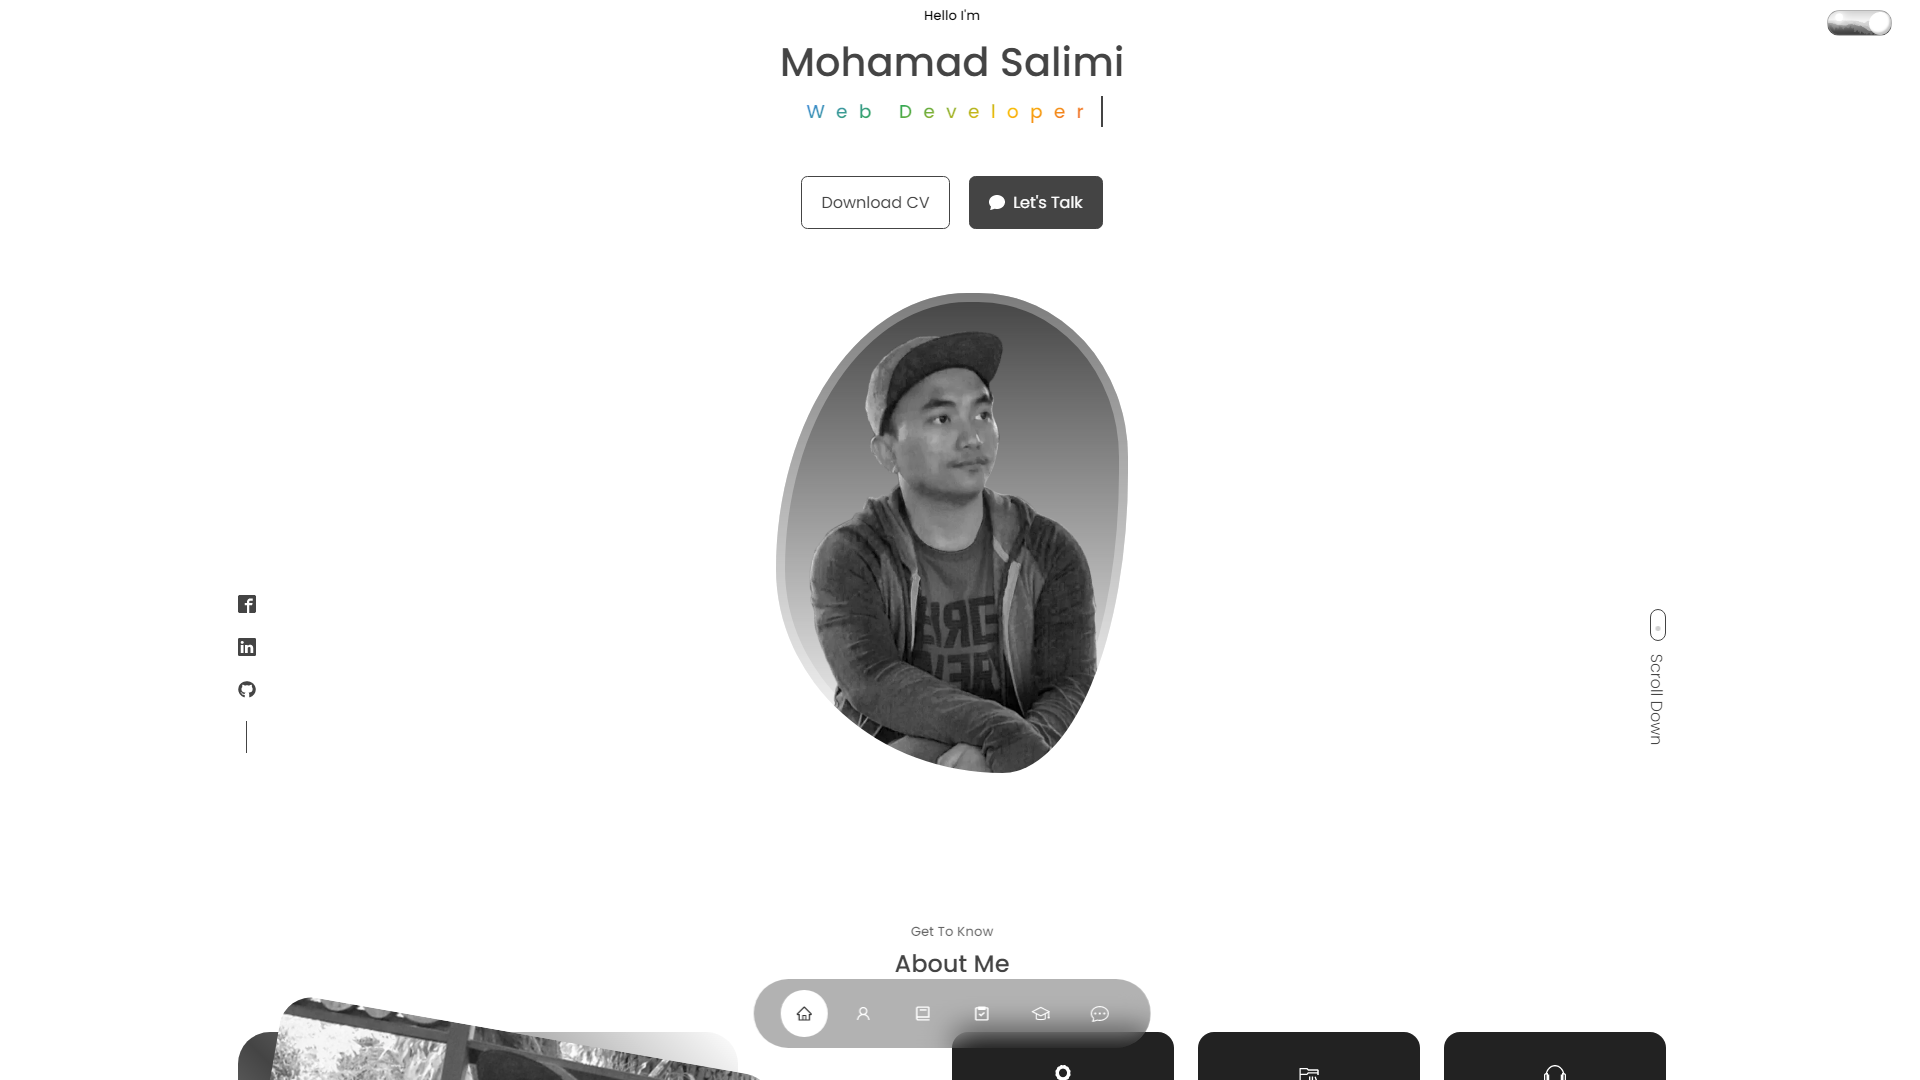
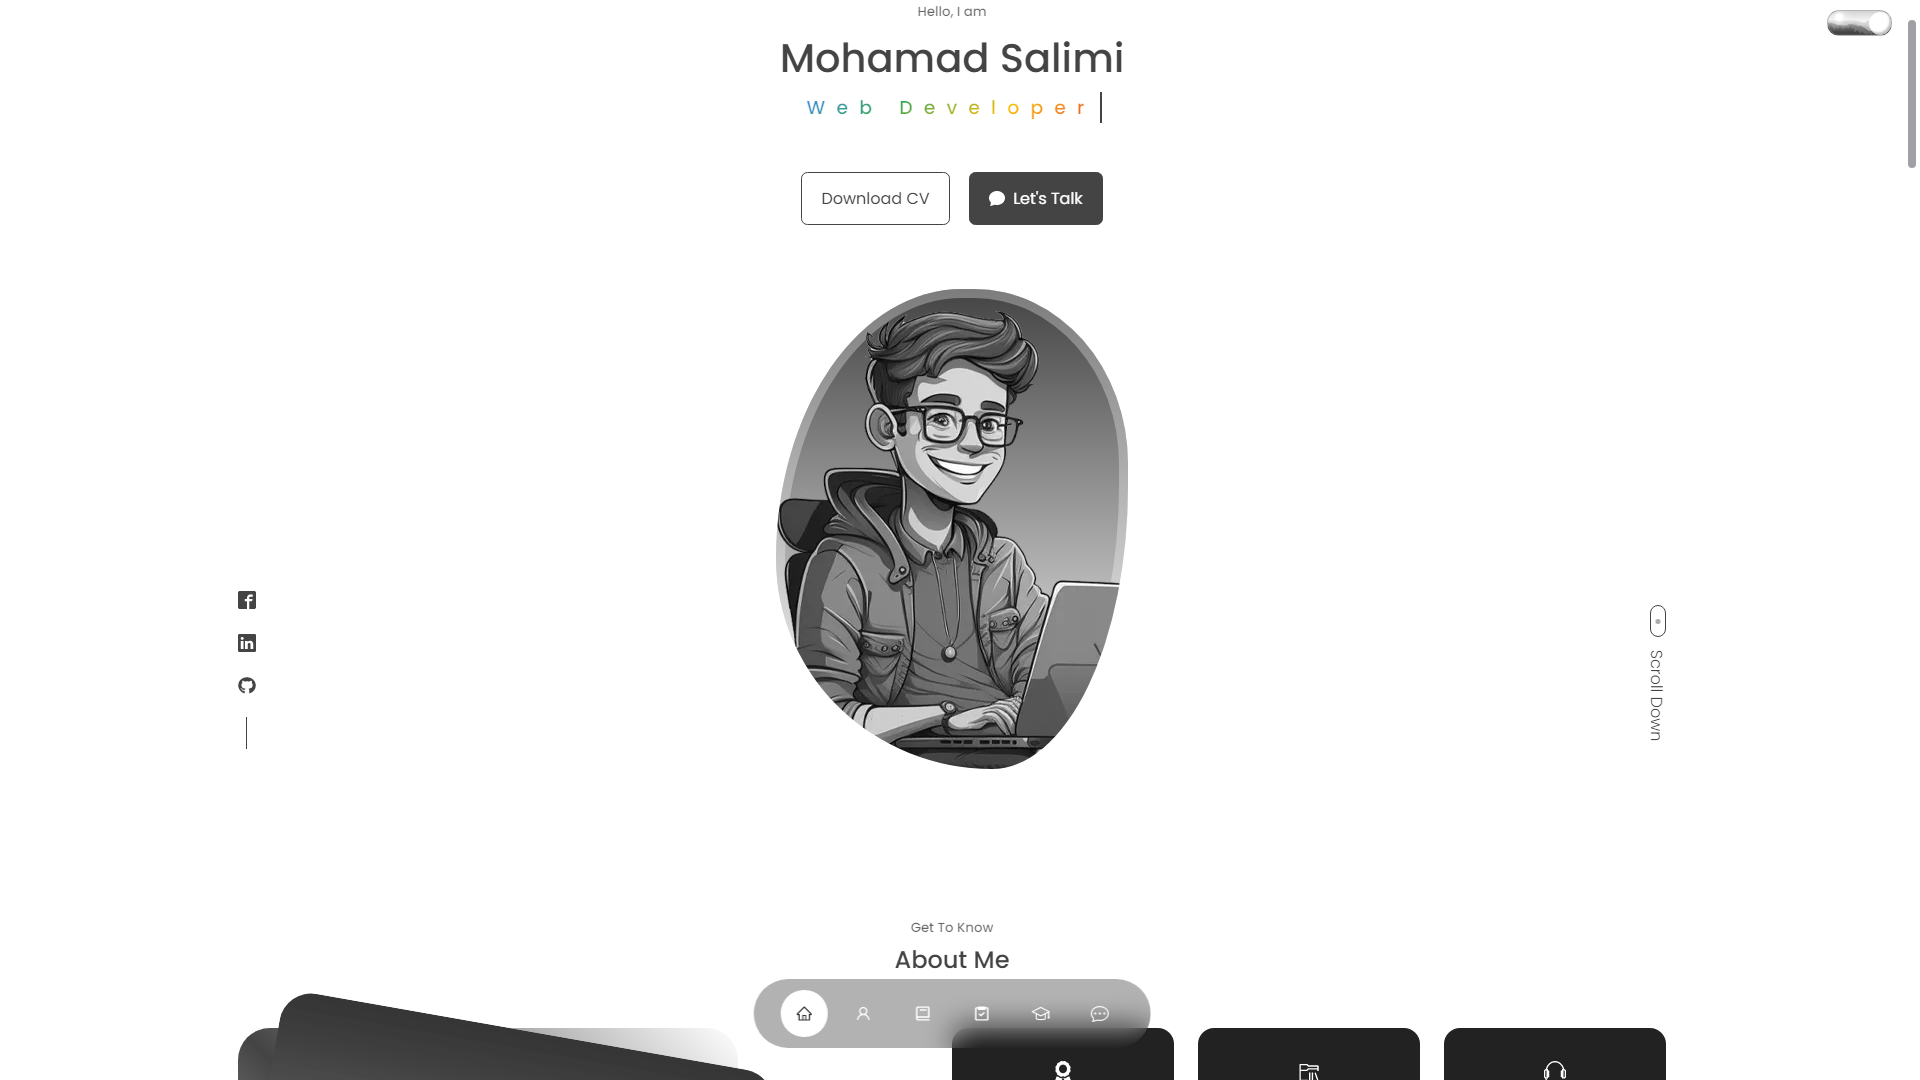
Update new images

diff --git a/src/components/about/About.jsx b/src/components/about/About.jsx
@@ -1,11 +1,11 @@
 import React from 'react';
 import './about.css';
-import MeJpg1000 from '../../assets/salimi-bw-background-1000.jpg';
-import MeWebp1000 from '../../assets/salimi-bw-background-1000.webp';
-import MeJpg440 from '../../assets/salimi-bw-background-440.jpg';
-import MeWebp440 from '../../assets/salimi-bw-background-440.webp';
-import MeJpg250 from '../../assets/salimi-bw-background-250.jpg';
-import MeWebp250 from '../../assets/salimi-bw-background-250.webp';
+import MeJpg1000 from '../../assets/web-developer-bg-1000-min.jpg';
+import MeWebp1000 from '../../assets/web-developer-bg-1000-min.webp';
+import MeJpg440 from '../../assets/web-developer-bg-440-min.jpg';
+import MeWebp440 from '../../assets/web-developer-bg-440-min.webp';
+import MeJpg250 from '../../assets/web-developer-bg-250-min.jpg';
+import MeWebp250 from '../../assets/web-developer-bg-250-min.webp';
 import { FaAward } from 'react-icons/fa';
 import { TfiHeadphoneAlt } from 'react-icons/tfi';
 import { VscFolderLibrary } from 'react-icons/vsc';

diff --git a/src/components/header/header.css b/src/components/header/header.css
@@ -129,7 +129,7 @@ header {
   margin-top: 4rem;
   border-radius: 12rem 12rem 0 0;
   overflow: hidden;
-  padding: 2rem 1.5rem 1.5rem 1.5rem;
+  padding: 1rem 0 0 0;
   order: 1;
   box-shadow: inset 0 0 0 9px rgb(255 255 255 / 30%);
   animation: profile__animate 8s ease-in-out infinite 0s;
@@ -141,7 +141,7 @@ header {
   }
 
   50% {
-    border-radius: 30% 60% 70% 40%/50% 60% 30% 60%;
+    border-radius: 35% 60% 70% 40%/50% 60% 30% 60%;
   }
 
   100% {

diff --git a/src/components/header/Header.jsx b/src/components/header/Header.jsx
@@ -1,8 +1,8 @@
 import React from 'react';
 import './header.css';
 import CTA from './CTA';
-import MEpng from '../../assets/salimi-bw-transparent-min.png';
-import MEwebp from '../../assets/salimi-bw-transparent-min.webp';
+import MEpng from '../../assets/web-developer-min.png';
+import MEwebp from '../../assets/web-developer-min.webp';
 import HeaderSocial from './HeaderSocial';
 
 const Header = () => {

diff --git a/src/components/about/about.css b/src/components/about/about.css
@@ -27,6 +27,7 @@
 
 .about__me-image img {
   height: auto;
+  filter: brightness(100%);
 }
 
 .about__me-image:hover {
